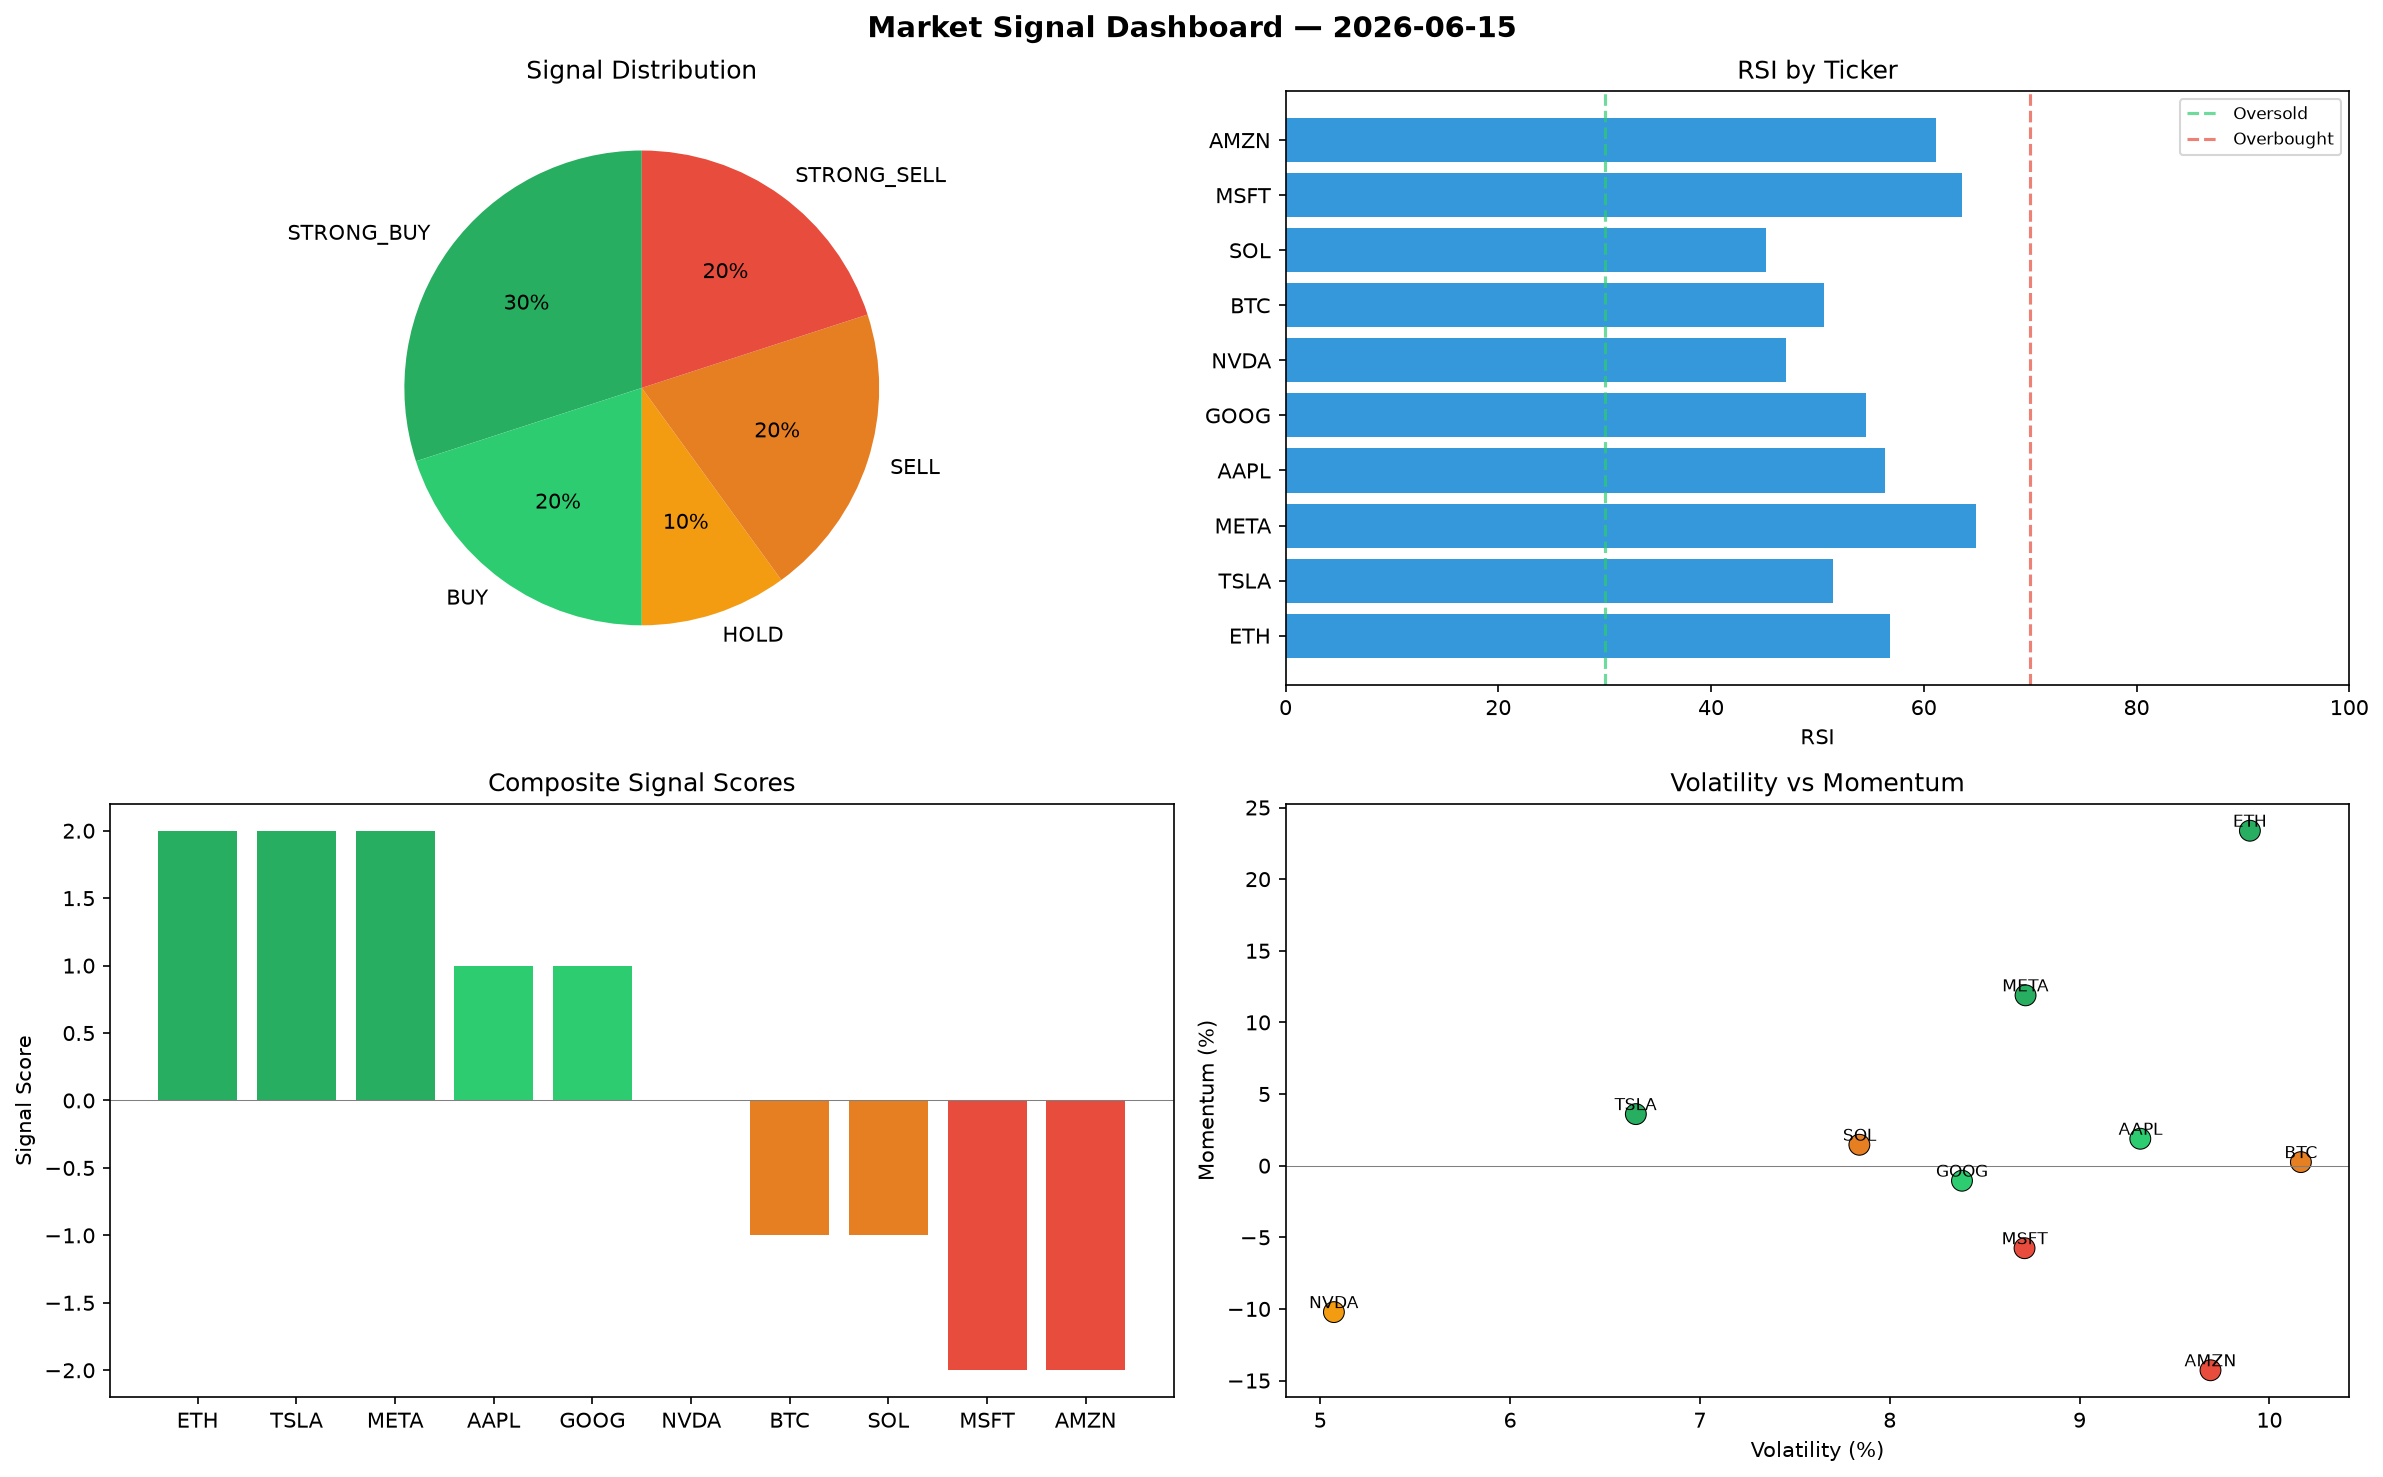
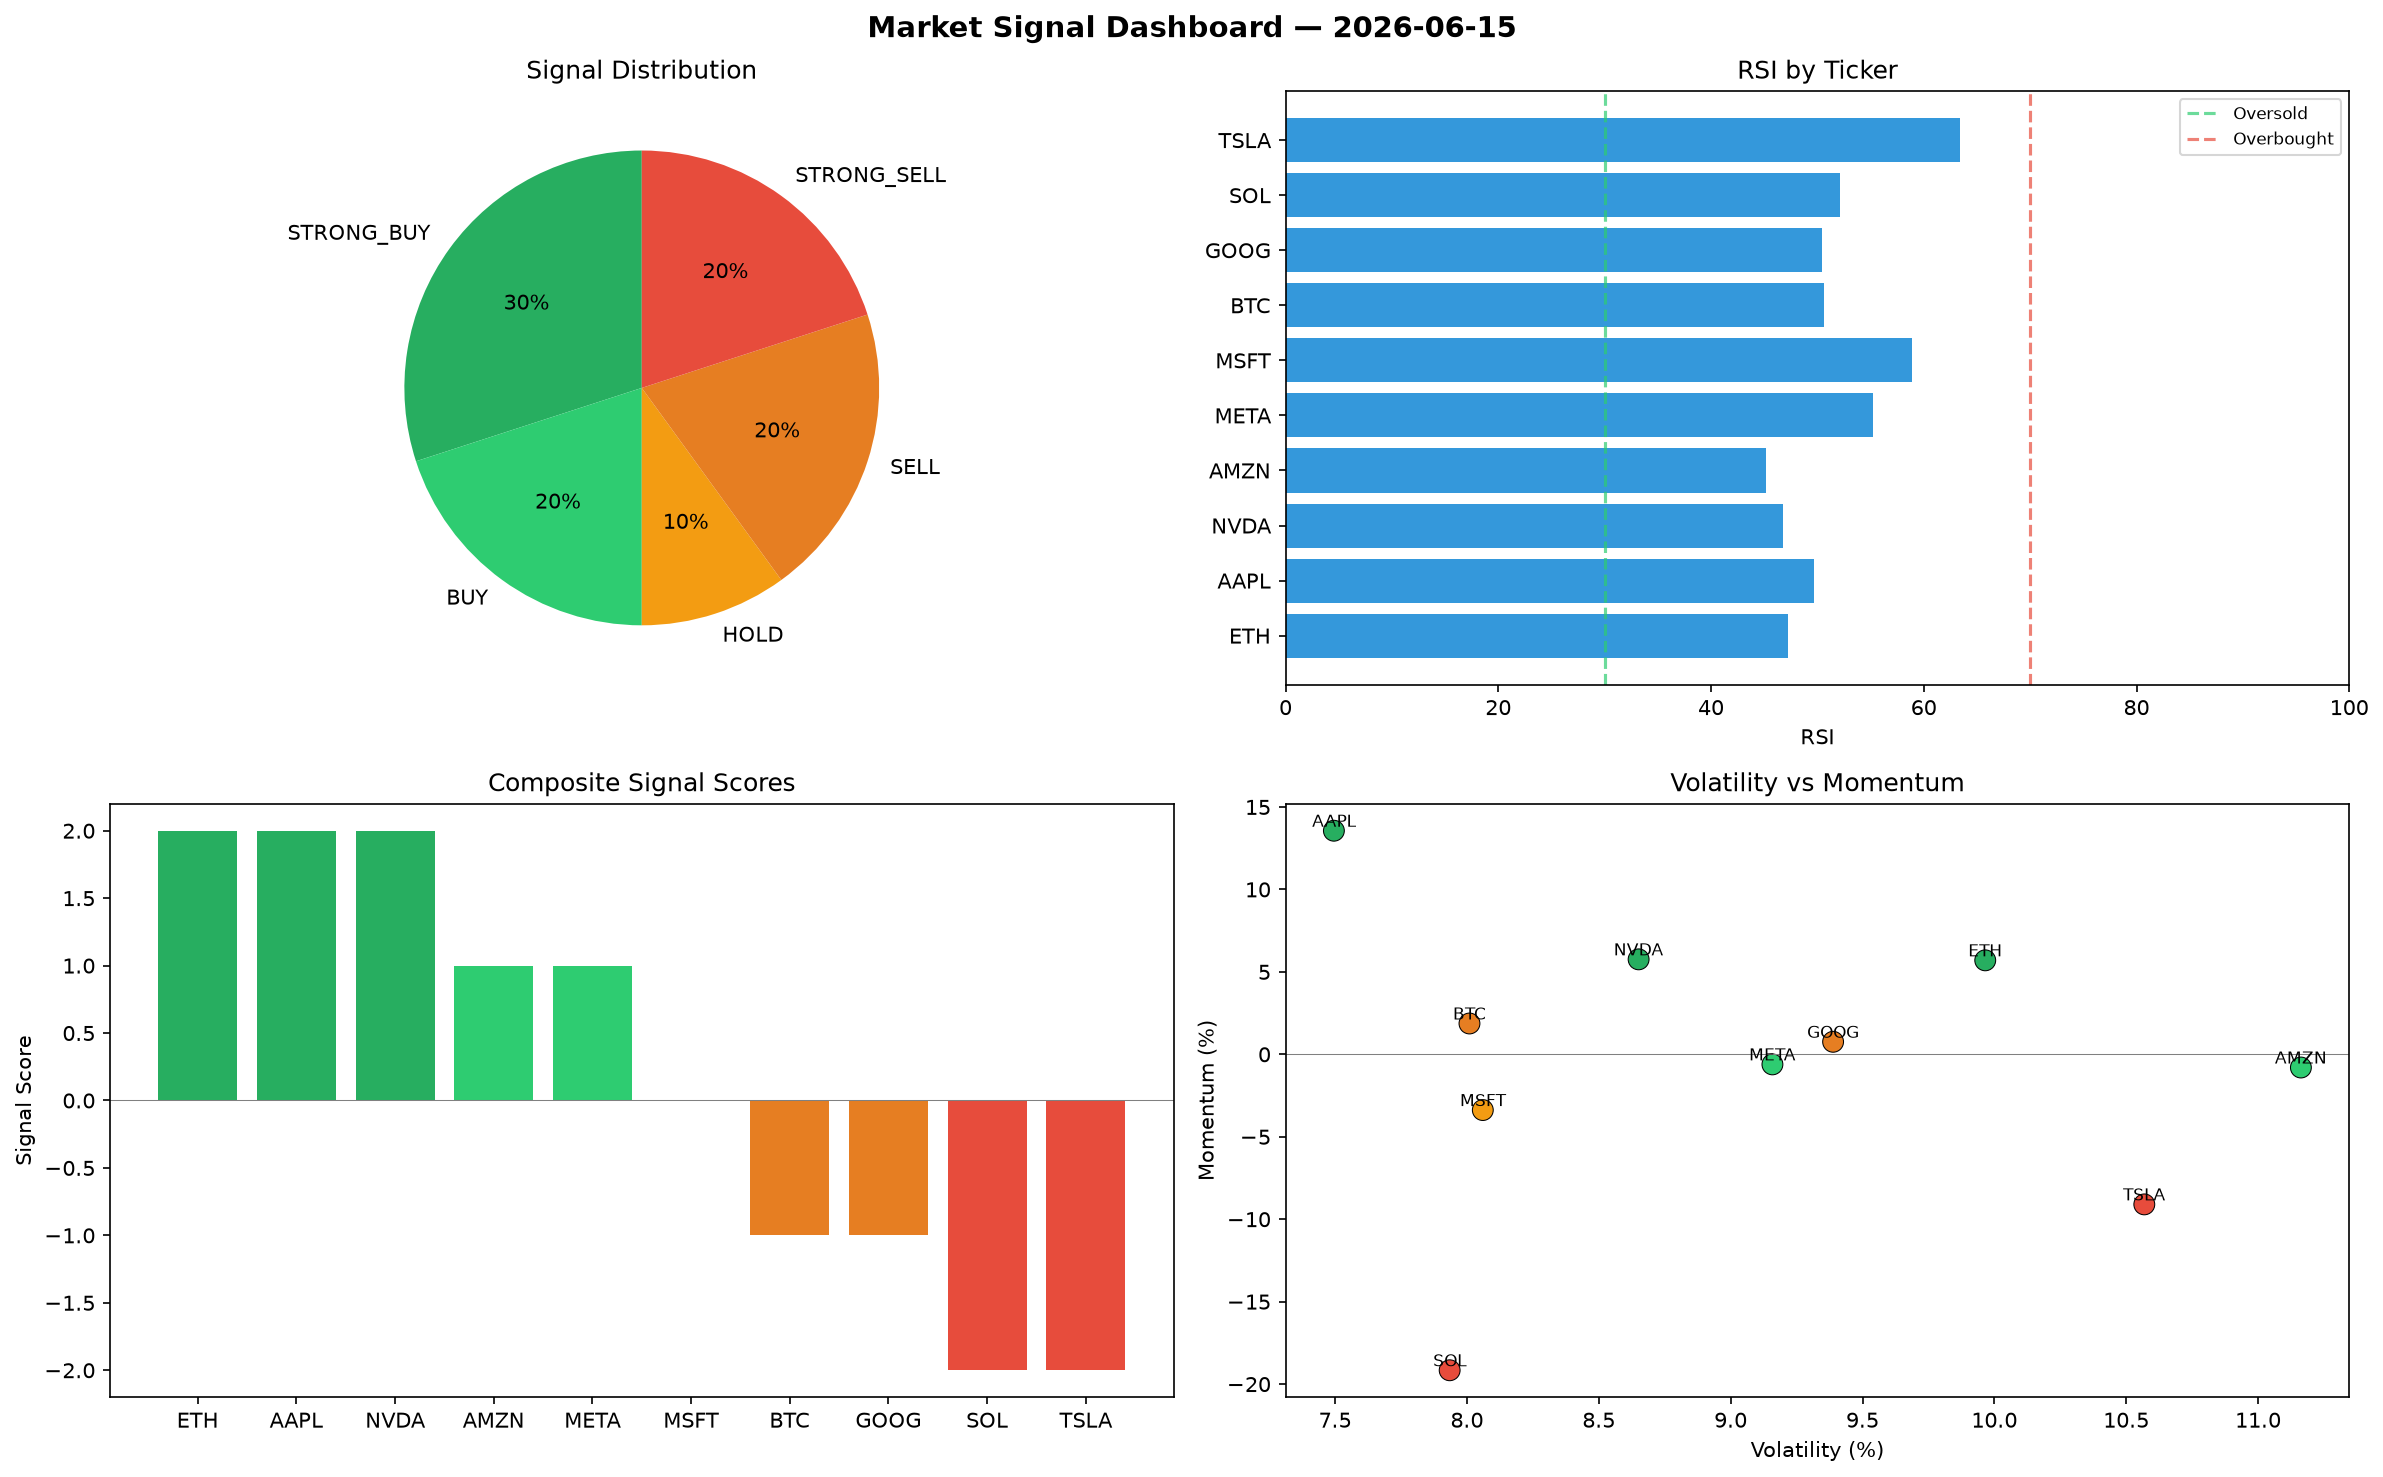
automated-bots: market signals 2026-06-15T22:31

diff --git a/logs/2026-06-15.md b/logs/2026-06-15.md
@@ -1,6 +1,6 @@
 # Market Signal Report — 2026-06-15
 
-**Run ID:** `960748316c` | **Buy:** 5 | **Sell:** 4 | **Hold:** 1
+**Run ID:** `a91a699521` | **Buy:** 5 | **Sell:** 4 | **Hold:** 1
 
 ![Dashboard](2026-06-15_dashboard.png)
 
@@ -8,28 +8,28 @@
 
 | Ticker | Price | Signal | Score | RSI | Momentum | Confidence |
 |--------|-------|--------|-------|-----|----------|------------|
-| ETH | $2878.31 | **STRONG_BUY** | 2 | 56.86 | 0.2338 | 0.5 |
-| TSLA | $4143.98 | **STRONG_BUY** | 2 | 51.51 | 0.036 | 0.5 |
-| META | $2817.03 | **STRONG_BUY** | 2 | 64.89 | 0.1189 | 0.5 |
-| AAPL | $548.56 | **BUY** | 1 | 56.4 | 0.0188 | 0.25 |
-| GOOG | $3754.14 | **BUY** | 1 | 54.55 | -0.0105 | 0.25 |
-| NVDA | $1000.93 | **HOLD** | 0 | 47.08 | -0.1022 | 0.0 |
-| BTC | $3979.3 | **SELL** | -1 | 50.63 | 0.0025 | 0.25 |
-| SOL | $4052.39 | **SELL** | -1 | 45.16 | 0.0146 | 0.25 |
-| MSFT | $2743.31 | **STRONG_SELL** | -2 | 63.57 | -0.0576 | 0.5 |
-| AMZN | $643.76 | **STRONG_SELL** | -2 | 61.18 | -0.1428 | 0.5 |
+| ETH | $189.29 | **STRONG_BUY** | 2 | 47.19 | 0.057 | 0.5 |
+| AAPL | $2907.98 | **STRONG_BUY** | 2 | 49.68 | 0.1356 | 0.5 |
+| NVDA | $48.63 | **STRONG_BUY** | 2 | 46.73 | 0.0576 | 0.5 |
+| AMZN | $3467.5 | **BUY** | 1 | 45.21 | -0.008 | 0.25 |
+| META | $2706.07 | **BUY** | 1 | 55.26 | -0.0061 | 0.25 |
+| MSFT | $439.47 | **HOLD** | 0 | 58.86 | -0.0338 | 0.0 |
+| BTC | $1775.7 | **SELL** | -1 | 50.63 | 0.0187 | 0.25 |
+| GOOG | $2018.35 | **SELL** | -1 | 50.47 | 0.0076 | 0.25 |
+| SOL | $862.98 | **STRONG_SELL** | -2 | 52.11 | -0.1916 | 0.5 |
+| TSLA | $2411.64 | **STRONG_SELL** | -2 | 63.45 | -0.091 | 0.5 |
 
 ## Delta vs Yesterday
 
 | Ticker | Today | Yesterday | Price Change | Signal Changed |
 |--------|-------|-----------|-------------|----------------|
-| ETH | STRONG_BUY | STRONG_SELL | 📈 846.19% | ⚠ YES |
-| TSLA | STRONG_BUY | SELL | 📈 1377.62% | ⚠ YES |
-| META | STRONG_BUY | STRONG_SELL | 📈 337.94% | ⚠ YES |
-| AAPL | BUY | STRONG_SELL | 📉 -37.8% | ⚠ YES |
-| GOOG | BUY | HOLD | 📈 211.5% | ⚠ YES |
-| NVDA | HOLD | HOLD | 📈 56.82% | — |
-| BTC | SELL | HOLD | 📈 473.99% | ⚠ YES |
-| SOL | SELL | STRONG_BUY | 📈 27.11% | ⚠ YES |
-| MSFT | STRONG_SELL | HOLD | 📉 -29.89% | ⚠ YES |
-| AMZN | STRONG_SELL | HOLD | 📉 -84.89% | ⚠ YES |
+| ETH | STRONG_BUY | STRONG_SELL | 📉 -37.77% | ⚠ YES |
+| AAPL | STRONG_BUY | STRONG_SELL | 📈 229.72% | ⚠ YES |
+| NVDA | STRONG_BUY | HOLD | 📉 -92.38% | ⚠ YES |
+| AMZN | BUY | HOLD | 📉 -18.61% | ⚠ YES |
+| META | BUY | STRONG_SELL | 📈 320.69% | ⚠ YES |
+| MSFT | HOLD | HOLD | 📉 -88.77% | — |
+| BTC | SELL | HOLD | 📈 156.13% | ⚠ YES |
+| GOOG | SELL | HOLD | 📈 67.47% | ⚠ YES |
+| SOL | STRONG_SELL | STRONG_BUY | 📉 -72.93% | ⚠ YES |
+| TSLA | STRONG_SELL | SELL | 📈 759.92% | ⚠ YES |
